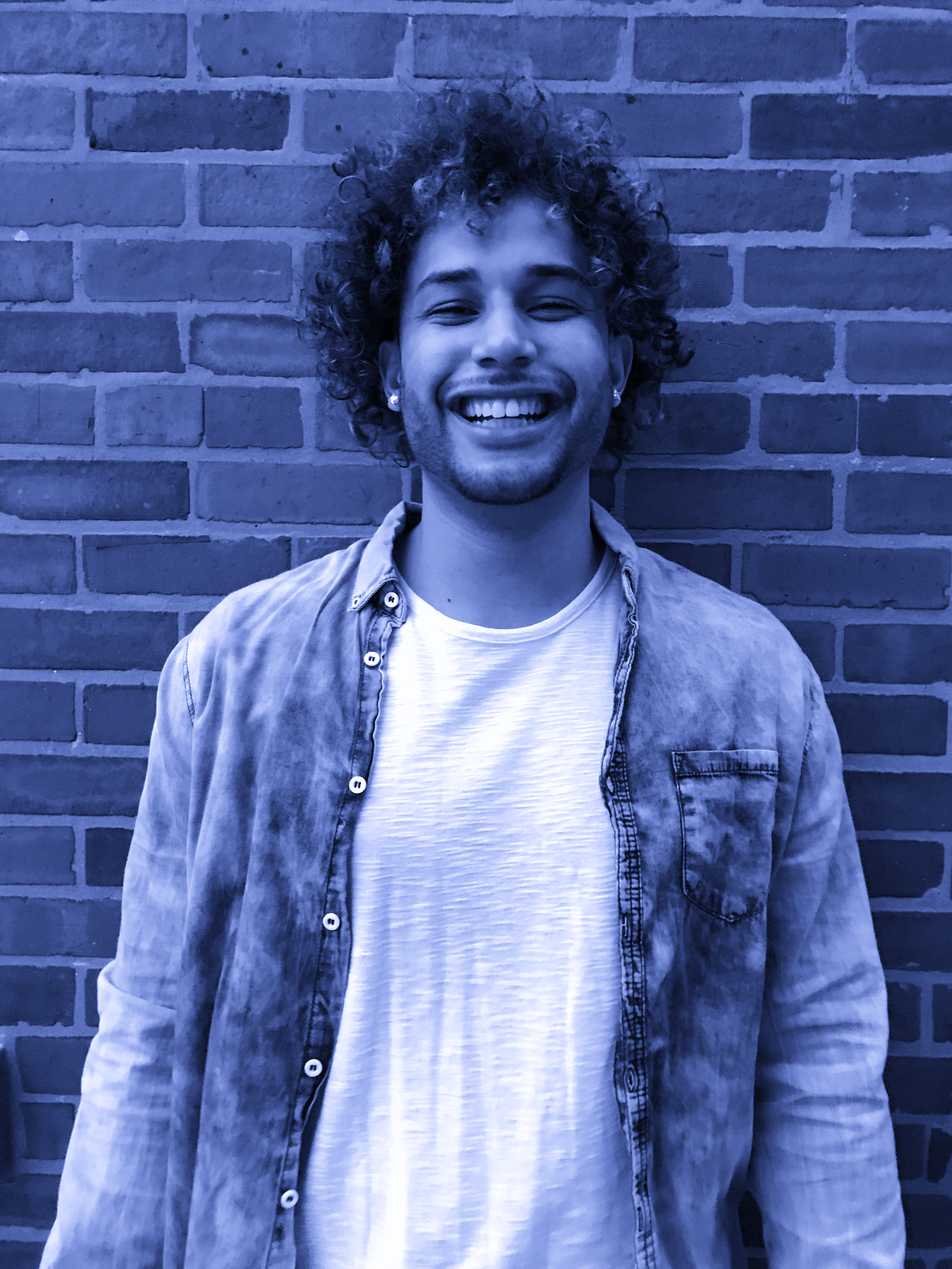
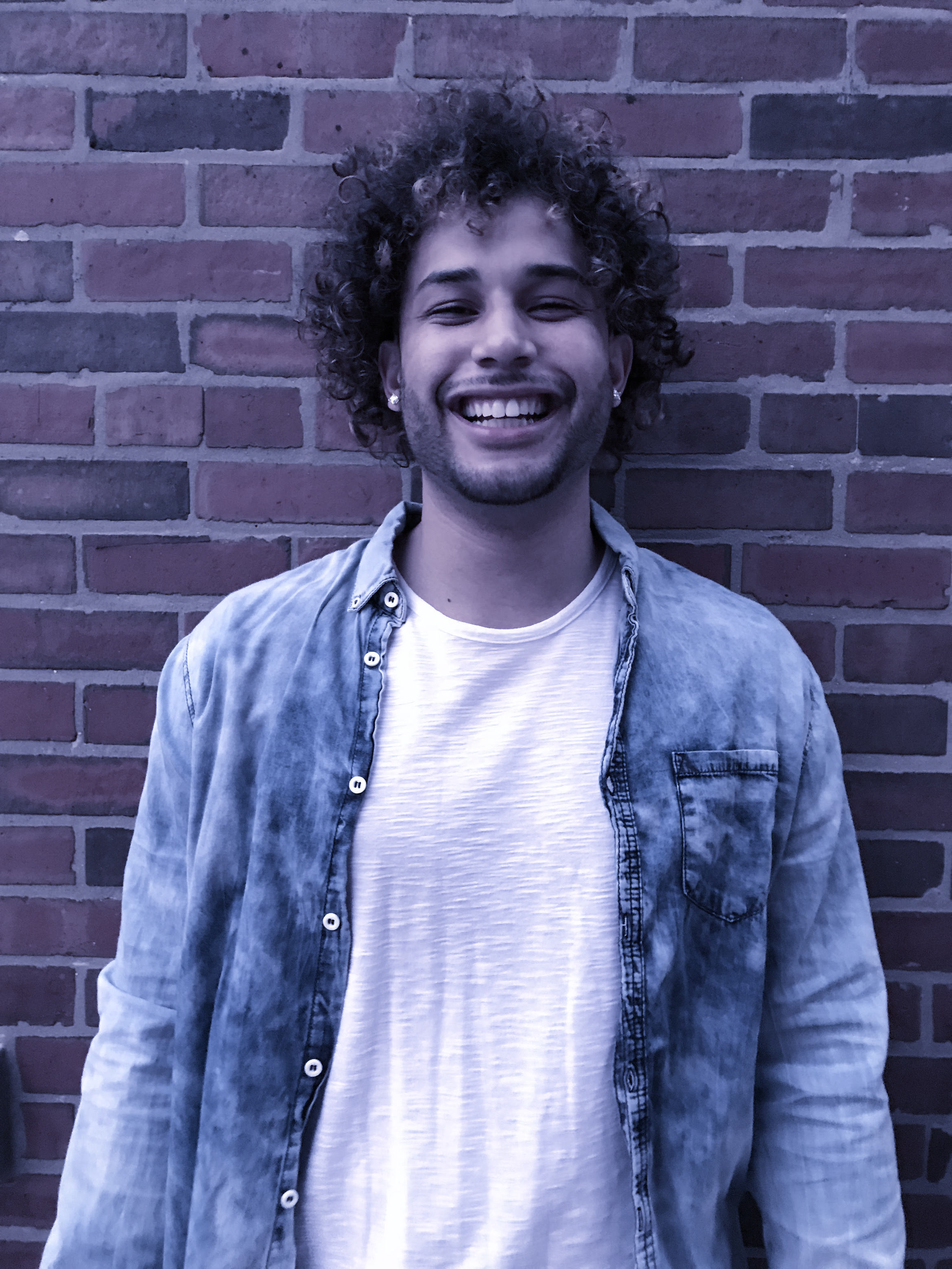
changed headshot image

diff --git a/index.html b/index.html
@@ -139,7 +139,7 @@
                             data-paddingbottom="[0,0,0,0]"
                             data-paddingleft="[0,0,0,0]"
 
-                            style="z-index: 8;border-width:0px;"><img src="image/home3/dummy.png" alt="" data-ww="['900px','800','750px','500']" data-hh="['850px','750','750px','500']" width="600" height="1000" data-lazyload="image/headshot4.jpg" data-no-retina> 
+                            style="z-index: 8;border-width:0px;"><img src="image/home3/dummy.png" alt="" data-ww="['900px','800','750px','500']" data-hh="['850px','750','750px','500']" width="600" height="1000" data-lazyload="image/headshot3.jpg" data-no-retina> 
                         </div>
 
                         <!-- LAYER NR. 3 -->
